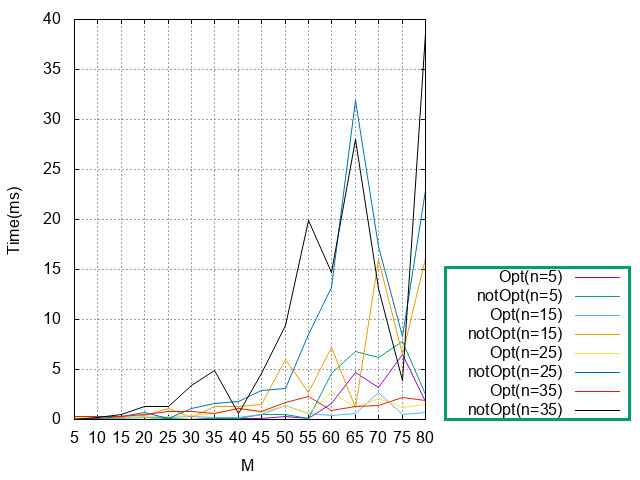
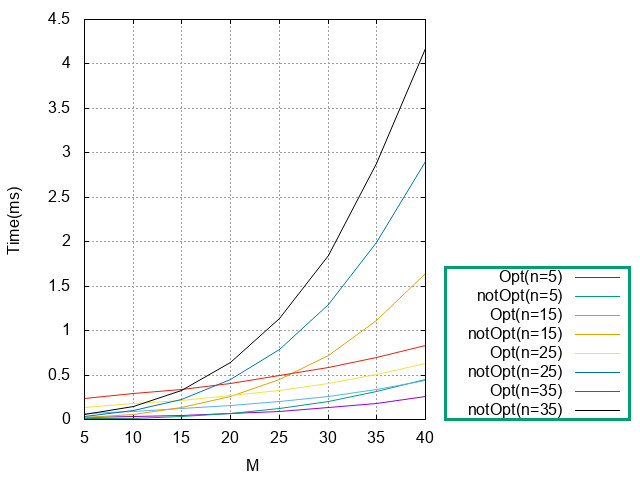
fixed graphics and data

diff --git a/src/main.cpp b/src/main.cpp
@@ -13,7 +13,7 @@ int randomFillMatrix() { return (rand() % 2); }
 
 Matrix<unsigned long long>* matrixChainOrder(const vector<unsigned int>& sizeMat) {
     unsigned int n = sizeMat.size();
-    Matrix<unsigned long long> M(n, n);
+    Matrix<unsigned long long> M(n-1, n-1);
     Matrix<unsigned long long> *S;
     S = new Matrix<unsigned long long>(n - 1, n - 1);
 
@@ -56,79 +56,179 @@ void task() {
     in.open("input_1.txt");
     out.open("output_1.txt");
     outData.open("data_M10.txt");
-    outData2.open("data_N10.txt");
+    outData2.open("data_N.txt");
     unsigned int l, r, n;
     in >> l >> r >> n;
+    vector<vector<double>> outputN(8);
 
     vector<unsigned int> numMat(n);
     for (register int i = 0; i < n; i++) {
         in >> numMat[i];
     }
 
-    for (int r = 10; r <= 160; r += 10) {
+    for (register int r = 5; r <= 40; r += 5) {
         //outData << "M = " << r << endl << endl;
         outData << left << setw(4) << r;
         vector<Matrix<unsigned long long>*> vec_mat;
         vector<unsigned int> sizeMat;
-        for (int i = 0; i < n; i++) {
-            sizeMat.resize(numMat[i] + 1);
-            for (auto && el : sizeMat) {
-                el = randomNumber(l, r);
-            }
-            int k = 0;
-            Matrix<unsigned long long> *matrix;
-            for (register int j = 0; j < numMat[i]; j++) {
-                matrix = new Matrix<unsigned long long>(sizeMat[k], sizeMat[k + 1]);
-                matrix->randomGenerate(&randomFillMatrix);
-                //out << *matrix << endl;
-                vec_mat.push_back(matrix);
-                k++;
-            }
-            out << endl;
+        for (register int i = 0; i < n; i++) {
+            double valueTimeOpt = 0.0;
+            double valueTimeNotOpt = 0.0;
+            for (register int p = 0; p < 10000; p++) {
+                sizeMat.resize(numMat[i] + 1);
 
-            auto tStart = high_resolution_clock::now();
-            Matrix<unsigned long long> *optimalCost = matrixChainOrder(sizeMat);
-            Matrix<unsigned long long> productMatrixChain = matrixChainMultiply(vec_mat, *optimalCost, 0, numMat[i] - 1, out);
-            auto tEnd = high_resolution_clock::now();
-            auto time1 = duration_cast<duration<double, milli>>(tEnd - tStart);
-            out << endl << "Number Of Matrix: " << numMat[i] << endl;
-            out << "product Of The Matrix Chain (time: " << time1.count() << " ): " << endl;
-            //out << productMatrixChain;
+                for (auto && el : sizeMat) {
+                    el = randomNumber(l, r);
+                }
+                int k = 0;
+                Matrix<unsigned long long> *matrix;
+                for (register int j = 0; j < numMat[i]; j++) {
+                    matrix = new Matrix<unsigned long long>(sizeMat[k], sizeMat[k + 1]);
+                    matrix->randomGenerate(&randomFillMatrix);
+                    //out << *matrix << endl;
+                    vec_mat.push_back(matrix);
+                    k++;
+                }
+                out << endl;
 
-            tStart = high_resolution_clock::now();
-            Matrix<unsigned long long> product = *vec_mat[0] * *vec_mat[1];
-            for (int i = 2; i < vec_mat.size(); i++) {
-                product *= *vec_mat[i];
+                auto tStart = high_resolution_clock::now();
+                Matrix<unsigned long long> *optimalCost = matrixChainOrder(sizeMat);
+                Matrix<unsigned long long> productMatrixChain = matrixChainMultiply(vec_mat, *optimalCost, 0, numMat[i] - 1, out);
+                auto tEnd = high_resolution_clock::now();
+                auto time1 = duration_cast<duration<double, milli>>(tEnd - tStart);
+                valueTimeOpt += time1.count();
+                /*out << endl << "Number Of Matrix: " << numMat[i] << endl;
+                out << "product Of The Matrix Chain (time: " << time1.count() << " ): " << endl;*/
+                //out << productMatrixChain;
+
+                tStart = high_resolution_clock::now();
+                Matrix<unsigned long long> product = *vec_mat[0] * *vec_mat[1];
+                for (int i = 2; i < vec_mat.size(); i++) {
+                    product *= *vec_mat[i];
+                }
+                tEnd = high_resolution_clock::now();
+                auto time2 = duration_cast<duration<double, milli>>(tEnd - tStart);
+                valueTimeNotOpt += time2.count();
+                /*out << endl << "Number Of Matrix: " << numMat[i] << endl;
+                out << "product Of The Matrix Chain (time: " << time2.count() << " ): " << endl;*/
+                //out << product;
+
+                //outData << left << setw(10) << setprecision(4) << time1.count() << setw(10) << setprecision(4) << time2.count();
+
+                delete optimalCost;
+                optimalCost = nullptr;
+                sizeMat.clear();
+                for (auto && el : vec_mat) {
+                    delete el;
+                    el = nullptr;
+                }
+                vec_mat.clear();
             }
-            tEnd = high_resolution_clock::now();
-            auto time2 = duration_cast<duration<double, milli>>(tEnd - tStart);
-            out << endl << "Number Of Matrix: " << numMat[i] << endl;
-            out << "product Of The Matrix Chain (time: " << time2.count() << " ): " << endl;
-            //out << product;
-
-            outData << left <<  setw(10) << setprecision(4) <<  time1.count() << setw(10) << setprecision(4)  << time2.count();
-
-            delete optimalCost;
-            optimalCost = nullptr;
-            sizeMat.clear();
-            for (auto && el : vec_mat) {
-                delete el;
-                el = nullptr;
-            }
-            vec_mat.clear();
+            valueTimeOpt /= 10000.0;
+            valueTimeNotOpt /= 10000.0;
+            outData << left << setw(10) << setprecision(4) << valueTimeOpt << setw(10) << setprecision(4) << valueTimeNotOpt;
+            outputN[(numMat[i] / 5) - 1].push_back(valueTimeOpt);
+            outputN[(numMat[i] / 5) - 1].push_back(valueTimeNotOpt);
         }
         outData << endl;
     }
 
-
+    for (register int i = 0; i < 8; i++) {
+        outData2 << left << setw(4) << i*5+5;
+        for (register int j = 0; j < outputN[i].size(); j++) {
+            outData2 << left << setw(10) << setprecision(4) << outputN[i][j];
+        }
+        outData2 << endl;
+    }
     in.close();
     out.close();
+    outData.close();
+    outData2.close();
 
 
+}
+
+
+unsigned long long matrixChainOrderMin(const vector<unsigned int>& sizeMat) {
+    unsigned int n = sizeMat.size();
+    Matrix<unsigned long long> M(n-1, n-1);
+    for (register int l = 1; l < n; l++) {
+        for (register int i = 1; i < n - l; i++) {
+            int j = i + l;
+            M(i - 1, j - 1) = numeric_limits<unsigned long long>::max();
+            for (register int k = i; k <= j - 1; k++) {
+                int q = M(i - 1, k - 1) + M(k, j - 1) + sizeMat[i - 1] * sizeMat[k] * sizeMat[j];
+                if (q < M(i - 1, j - 1)) {
+                    M(i - 1, j - 1) = q;
+                }
+            }
+        }
+    }
+    return M(0,n-2);
+}
+
+void task_2() {
+    ifstream in;
+    ofstream out;
+    ofstream outData;
+    ofstream outData2;
+    in.open("input_1.txt");
+    out.open("output_1.txt");
+    outData.open("data_M12.txt");
+    outData2.open("data_N12.txt");
+    unsigned int l, r, n;
+    in >> l >> r >> n;
+    vector<vector<unsigned long long>> outputN(8);
+
+    vector<unsigned int> numMat(n);
+    for (register int i = 0; i < n; i++) {
+        in >> numMat[i];
+    }
+
+    for (register int r = 5; r <= 40; r += 5) {
+        //outData << "M = " << r << endl << endl;
+        outData << left << setw(4) << r;
+        vector<Matrix<unsigned long long>*> vec_mat;
+        vector<unsigned int> sizeMat;
+        for (register int i = 0; i < n; i++) {
+            unsigned long long optimalCost = 0;
+            unsigned long long notOptimalCost = 0;
+            for (register int p = 0; p < 10000; p++) {
+                sizeMat.resize(numMat[i] + 1);
+                for (auto && el : sizeMat) {
+                    el = randomNumber(l, r);
+                }
+                optimalCost += matrixChainOrderMin(sizeMat);
+                for (register int k = 1; k < numMat[i]; k++) {
+                    notOptimalCost += sizeMat[0] * sizeMat[k] * sizeMat[k + 1];
+                }
+
+            }
+            optimalCost /= 10000;
+            notOptimalCost /= 10000;
+            outData << left << setw(10) << optimalCost << setw(10) << setprecision(4) << notOptimalCost;
+            outputN[(numMat[i] / 5) - 1].push_back(optimalCost);
+            outputN[(numMat[i] / 5) - 1].push_back(notOptimalCost);
+        }
+        outData << endl;
+    }
+
+    for (register int i = 0; i < 8; i++) {
+        outData2 << left << setw(4) << i * 5 + 5;
+        for (register int j = 0; j < outputN[i].size(); j++) {
+            outData2 << left << setw(10)  << outputN[i][j];
+        }
+        outData2 << endl;
+    }
+    in.close();
+    out.close();
+    outData.close();
+    outData2.close();
 }
 
 int main() {
     srand((unsigned)time(0));
     task();
+    task_2();
     return 0;
 }
